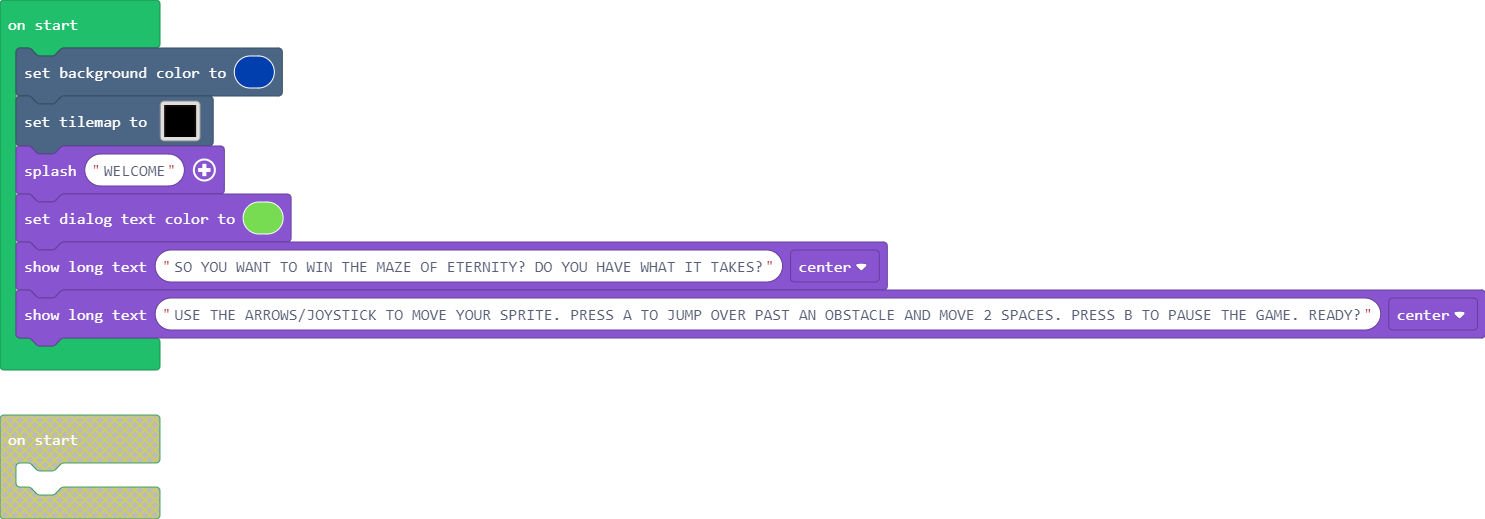
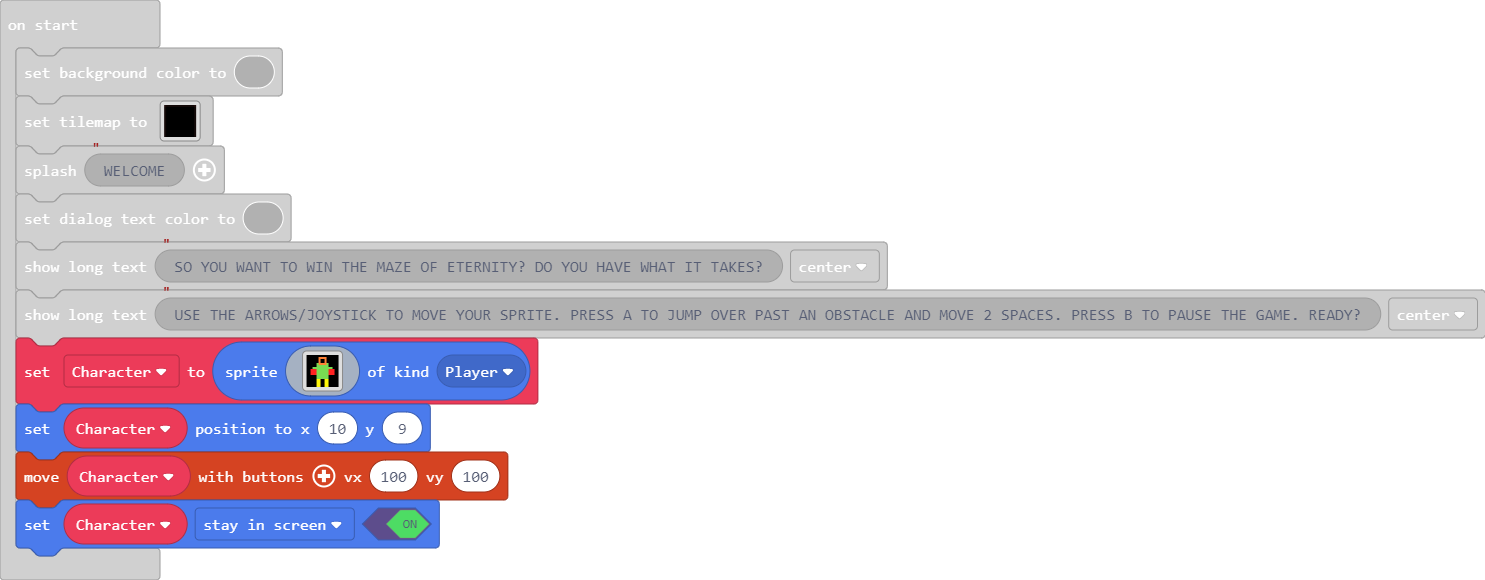
Added sprite and some control

diff --git a/main.ts b/main.ts
@@ -47,3 +47,24 @@ game.splash("WELCOME")
 game.setDialogTextColor(7)
 game.showLongText("SO YOU WANT TO WIN THE MAZE OF ETERNITY? DO YOU HAVE WHAT IT TAKES?", DialogLayout.Center)
 game.showLongText("USE THE ARROWS/JOYSTICK TO MOVE YOUR SPRITE. PRESS A TO JUMP OVER PAST AN OBSTACLE AND MOVE 2 SPACES. PRESS B TO PAUSE THE GAME. READY?", DialogLayout.Center)
+let Character = sprites.create(img`
+f f f f f f f f f f f f f f f f 
+f f f f f f 4 4 4 4 f f f f f f 
+f f f f f f 4 f f 4 f f f f f f 
+f f f f f f 4 f f 4 f f f f f f 
+f f f f f 7 4 4 4 4 7 f f f f f 
+f f f f f 7 7 7 7 7 7 f f f f f 
+f f f 7 7 7 7 7 7 7 7 7 7 f f f 
+f f 2 2 2 7 7 7 7 7 7 2 2 2 f f 
+f f 2 2 2 7 7 7 7 7 7 2 2 2 f f 
+f f 2 2 2 7 7 7 7 7 7 2 2 2 f f 
+f f f f f 7 7 7 7 7 7 f f f f f 
+f f f f f 7 7 7 7 7 7 f f f f f 
+f f f f f 5 5 f f 5 5 f f f f f 
+f f f f f 5 5 f f 5 5 f f f f f 
+f f f f f 5 5 f f 5 5 f f f f f 
+f f f f f 5 5 f f 5 5 f f f f f 
+`, SpriteKind.Player)
+Character.setPosition(10, 9)
+controller.moveSprite(Character, 100, 100)
+Character.setFlag(SpriteFlag.StayInScreen, true)
